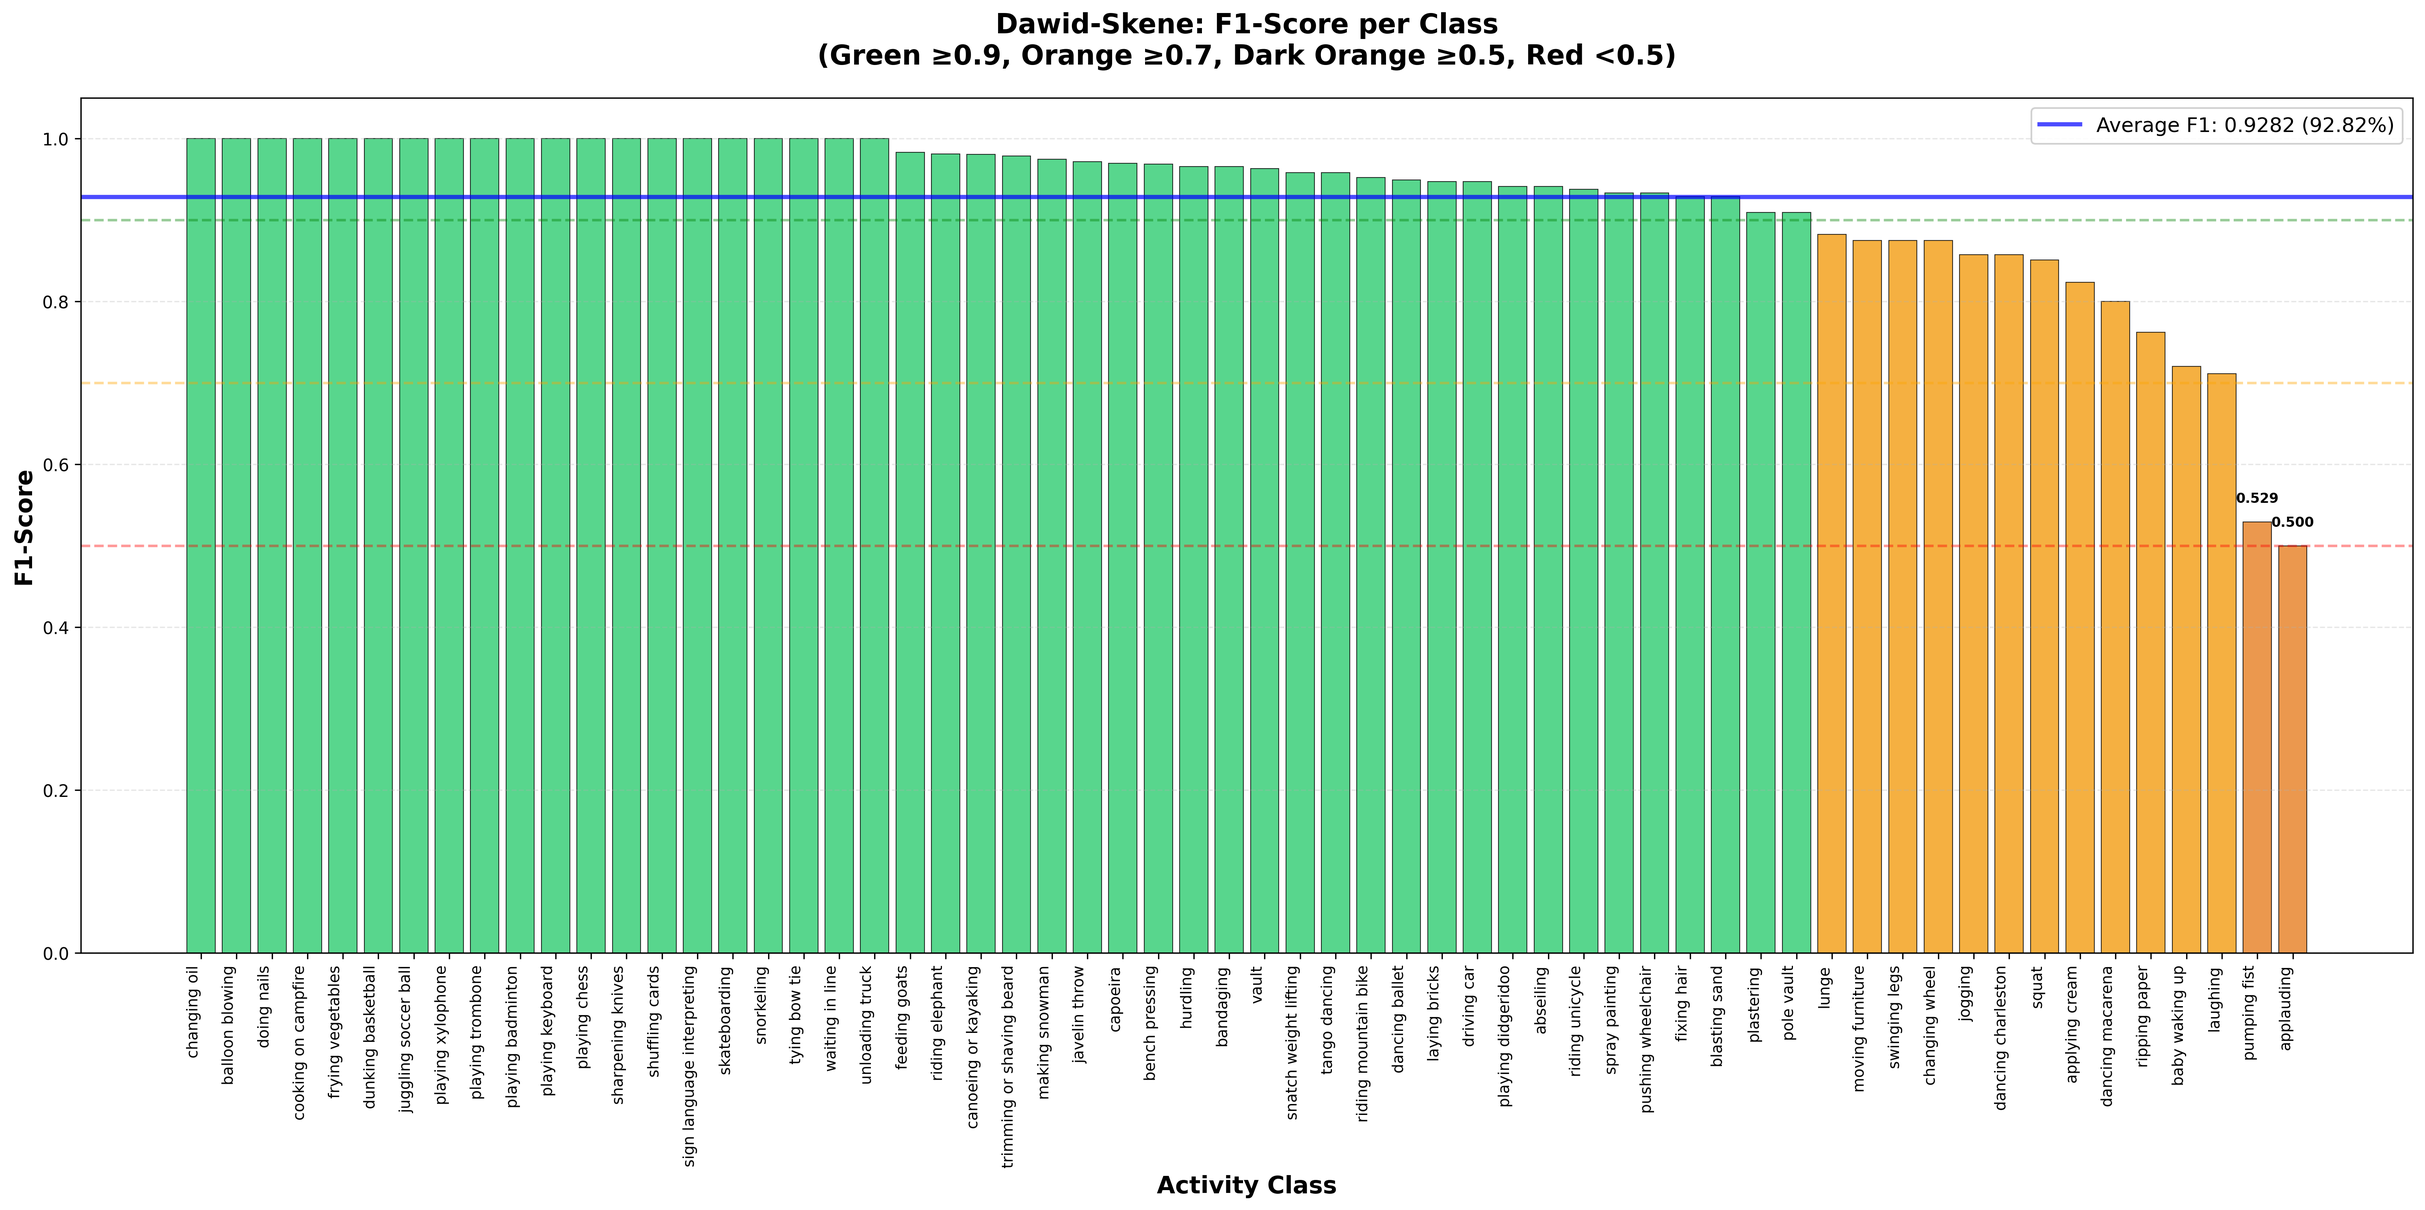
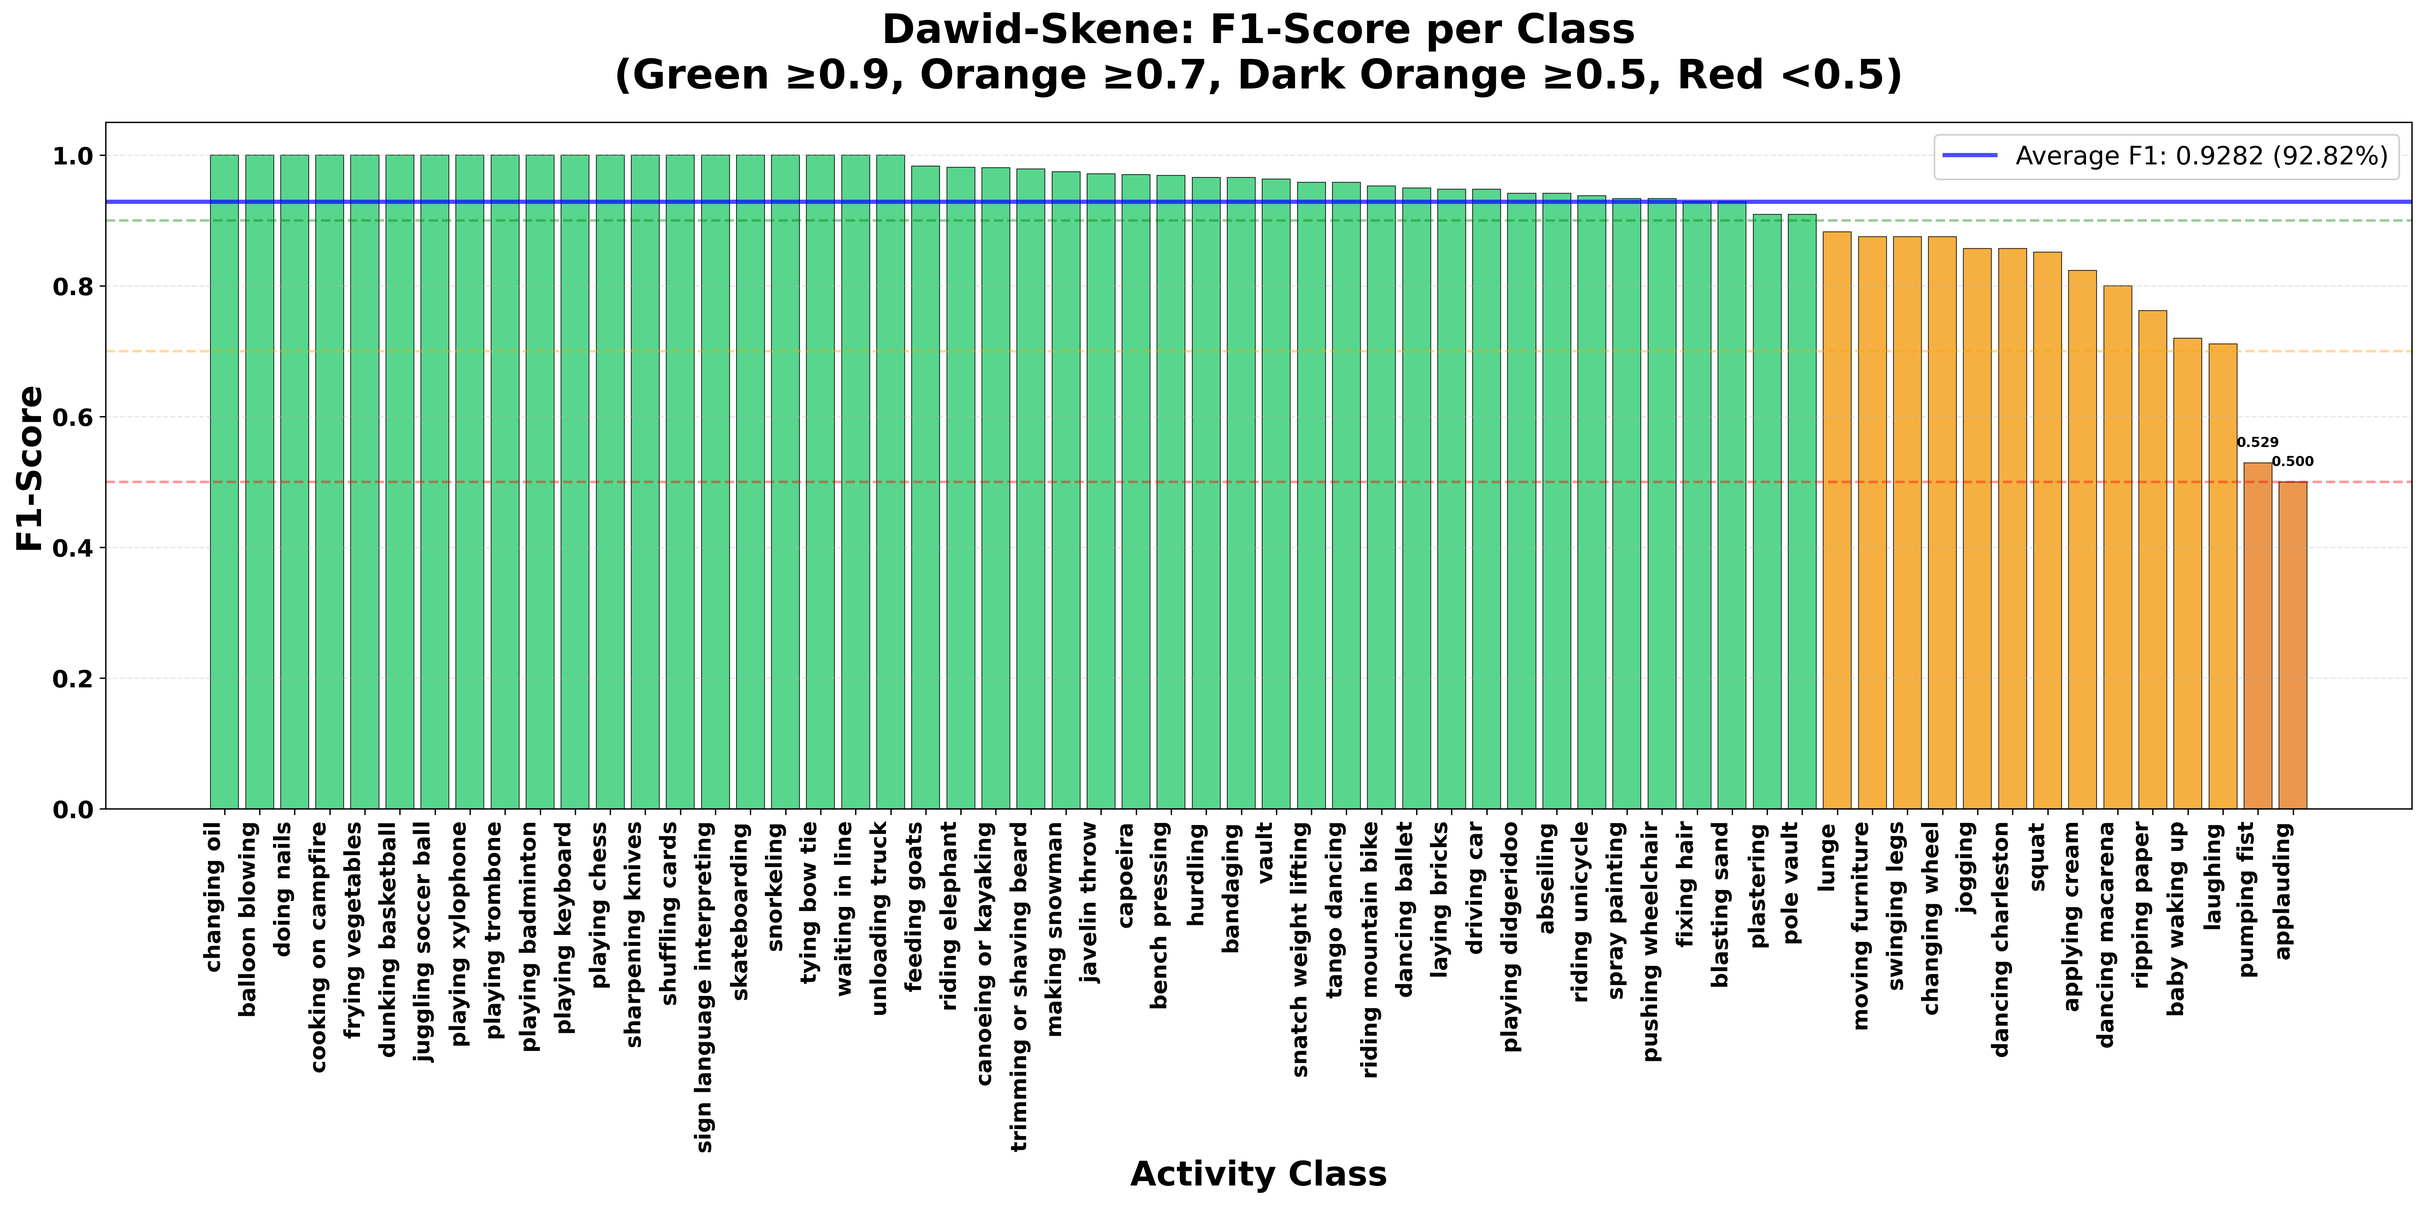
some updates

diff --git a/evualation_tools/visualize_classification_report.py b/evualation_tools/visualize_classification_report.py
@@ -57,14 +57,17 @@ def plot_per_class_metrics(df_classes, output_dir, method_name='Dawid-Skene'):
     ax.axhline(y=0.5, color='red', linestyle='--', linewidth=1.5, alpha=0.5, label='50% threshold')
     
     # Customize plot
-    ax.set_xlabel('Activity Class', fontsize=14, fontweight='bold')
-    ax.set_ylabel('Score', fontsize=14, fontweight='bold')
+    ax.set_xlabel('Activity Class', fontsize=20, fontweight='bold', color='black')
+    ax.set_ylabel('Score', fontsize=20, fontweight='bold', color='black')
     ax.set_title(f'{method_name}: Per-Class Performance Metrics\n(Sorted by F1-Score)', 
-                 fontsize=16, fontweight='bold', pad=20)
+                 fontsize=24, fontweight='bold', pad=20, color='black')
     ax.set_xticks(x_pos)
-    ax.set_xticklabels(classes, rotation=90, ha='right', fontsize=9)
+    ax.set_xticklabels(classes, rotation=90, ha='right', fontsize=13, fontweight='bold', color='black')
     ax.set_ylim(0, 1.05)
-    ax.legend(loc='upper right', fontsize=11, framealpha=0.9)
+    ax.tick_params(axis='y', labelsize=14, labelcolor='black')
+    for label in ax.get_yticklabels():
+        label.set_fontweight('bold')
+    ax.legend(loc='upper right', fontsize=14, framealpha=0.9)
     ax.grid(axis='y', alpha=0.3, linestyle='--')
     
     # Add average line
@@ -116,14 +119,17 @@ def plot_f1_score_only(df_classes, output_dir, method_name='Dawid-Skene'):
     ax.axhline(y=0.5, color='red', linestyle='--', linewidth=1.5, alpha=0.4)
     
     # Customize
-    ax.set_xlabel('Activity Class', fontsize=14, fontweight='bold')
-    ax.set_ylabel('F1-Score', fontsize=14, fontweight='bold')
+    ax.set_xlabel('Activity Class', fontsize=20, fontweight='bold', color='black')
+    ax.set_ylabel('F1-Score', fontsize=20, fontweight='bold', color='black')
     ax.set_title(f'{method_name}: F1-Score per Class\n(Green ≥0.9, Orange ≥0.7, Dark Orange ≥0.5, Red <0.5)', 
-                 fontsize=16, fontweight='bold', pad=20)
+                 fontsize=24, fontweight='bold', pad=20, color='black')
     ax.set_xticks(x_pos)
-    ax.set_xticklabels(classes, rotation=90, ha='right', fontsize=9)
+    ax.set_xticklabels(classes, rotation=90, ha='right', fontsize=13, fontweight='bold', color='black')
     ax.set_ylim(0, 1.05)
-    ax.legend(loc='upper right', fontsize=12, framealpha=0.9)
+    ax.tick_params(axis='y', labelsize=14, labelcolor='black')
+    for label in ax.get_yticklabels():
+        label.set_fontweight('bold')
+    ax.legend(loc='upper right', fontsize=15, framealpha=0.9)
     ax.grid(axis='y', alpha=0.3, linestyle='--')
     
     # Add value labels on top of bars for low performers
@@ -158,24 +164,19 @@ def plot_metrics_heatmap(df_classes, output_dir, method_name='Dawid-Skene'):
     # Set ticks
     ax.set_xticks(np.arange(len(df_classes)))
     ax.set_yticks(np.arange(3))
-    ax.set_xticklabels(df_classes.index, rotation=90, ha='right', fontsize=9)
-    ax.set_yticklabels(['Precision', 'Recall', 'F1-Score'], fontsize=12, fontweight='bold')
+    ax.set_xticklabels(df_classes.index, rotation=90, ha='right', fontsize=13, fontweight='bold', color='black')
+    ax.set_yticklabels(['Precision', 'Recall', 'F1-Score'], fontsize=18, fontweight='bold', color='black')
     
     # Add colorbar
     cbar = plt.colorbar(im, ax=ax, orientation='vertical', pad=0.01)
-    cbar.set_label('Score', fontsize=12, fontweight='bold')
+    cbar.set_label('Score', fontsize=16, fontweight='bold', color='black')
+    cbar.ax.tick_params(labelsize=13, labelcolor='black')
+    for label in cbar.ax.get_yticklabels():
+        label.set_fontweight('bold')
     
-    # Add values in cells
-    for i in range(3):
-        for j in range(len(df_classes)):
-            value = data_matrix[i, j]
-            color = 'white' if value < 0.5 else 'black'
-            text = ax.text(j, i, f'{value:.2f}', ha='center', va='center',
-                          color=color, fontsize=7, fontweight='bold')
-    
-    # Title
+    # Title (removed cell annotations for clarity)
     ax.set_title(f'{method_name}: Performance Metrics Heatmap\n(All Activity Classes)', 
-                 fontsize=16, fontweight='bold', pad=20)
+                 fontsize=24, fontweight='bold', pad=20, color='black')
     
     plt.tight_layout()
     
@@ -222,18 +223,21 @@ def plot_support_vs_f1(df_classes, output_dir, method_name='Dawid-Skene'):
     ax.plot(support, p(support), "r--", alpha=0.5, linewidth=2, 
             label=f'Trend: y={z[0]:.4f}x+{z[1]:.4f}')
     
-    ax.set_xlabel('Support (Number of Samples)', fontsize=12, fontweight='bold')
-    ax.set_ylabel('F1-Score', fontsize=12, fontweight='bold')
+    ax.set_xlabel('Support (Number of Samples)', fontsize=18, fontweight='bold', color='black')
+    ax.set_ylabel('F1-Score', fontsize=18, fontweight='bold', color='black')
     ax.set_title(f'{method_name}: F1-Score vs Sample Size\n(Correlation Analysis)', 
-                 fontsize=14, fontweight='bold', pad=20)
+                 fontsize=22, fontweight='bold', pad=20, color='black')
     ax.grid(True, alpha=0.3)
-    ax.legend(fontsize=11)
+    ax.tick_params(axis='both', labelsize=14, labelcolor='black')
+    for label in ax.get_xticklabels() + ax.get_yticklabels():
+        label.set_fontweight('bold')
+    ax.legend(fontsize=14)
     ax.set_ylim(0, 1.05)
     
     # Add correlation coefficient
     corr = np.corrcoef(support, f1_scores)[0, 1]
     ax.text(0.02, 0.98, f'Correlation: {corr:.3f}', 
-            transform=ax.transAxes, fontsize=11, verticalalignment='top',
+            transform=ax.transAxes, fontsize=15, fontweight='bold', verticalalignment='top',
             bbox=dict(boxstyle='round', facecolor='wheat', alpha=0.7))
     
     plt.tight_layout()
@@ -319,8 +323,8 @@ def main():
     print("=" * 100)
     
     # Input file
-    input_file = 'evaluation_results/dawid_skene_classification_report.csv'
-    output_dir = 'evaluation_results/visualizations'
+    input_file = '../evaluation_results/dawid_skene_classification_report.csv'
+    output_dir = '../evaluation_results/visualizations'
     method_name = 'Dawid-Skene'
     
     # Create output directory

diff --git a/evualation_tools/visualize_confusion_matrix.py b/evualation_tools/visualize_confusion_matrix.py
@@ -42,13 +42,13 @@ def plot_confusion_matrix_heatmap(cm_df, output_dir, method_name='Dawid-Skene'):
     )
     
     ax.set_title(f'{method_name}: Confusion Matrix\n(True Labels vs Predicted Labels)', 
-                 fontsize=18, fontweight='bold', pad=20)
-    ax.set_xlabel('Predicted Label', fontsize=14, fontweight='bold')
-    ax.set_ylabel('True Label', fontsize=14, fontweight='bold')
+                 fontsize=24, fontweight='bold', pad=20, color='black')
+    ax.set_xlabel('Predicted Label', fontsize=20, fontweight='bold', color='black')
+    ax.set_ylabel('True Label', fontsize=20, fontweight='bold', color='black')
     
     # Rotate labels
-    plt.xticks(rotation=90, ha='right', fontsize=8)
-    plt.yticks(rotation=0, fontsize=8)
+    plt.xticks(rotation=90, ha='right', fontsize=12, fontweight='bold', color='black')
+    plt.yticks(rotation=0, fontsize=12, fontweight='bold', color='black')
     
     plt.tight_layout()
     
@@ -86,13 +86,13 @@ def plot_normalized_confusion_matrix(cm_df, output_dir, method_name='Dawid-Skene
     )
     
     ax.set_title(f'{method_name}: Normalized Confusion Matrix\n(Row-wise: True Label Distribution)', 
-                 fontsize=18, fontweight='bold', pad=20)
-    ax.set_xlabel('Predicted Label', fontsize=14, fontweight='bold')
-    ax.set_ylabel('True Label', fontsize=14, fontweight='bold')
+                 fontsize=24, fontweight='bold', pad=20, color='black')
+    ax.set_xlabel('Predicted Label', fontsize=20, fontweight='bold', color='black')
+    ax.set_ylabel('True Label', fontsize=20, fontweight='bold', color='black')
     
     # Rotate labels
-    plt.xticks(rotation=90, ha='right', fontsize=8)
-    plt.yticks(rotation=0, fontsize=8)
+    plt.xticks(rotation=90, ha='right', fontsize=12, fontweight='bold', color='black')
+    plt.yticks(rotation=0, fontsize=12, fontweight='bold', color='black')
     
     plt.tight_layout()
     
@@ -153,14 +153,17 @@ def plot_per_class_accuracy_from_cm(cm_df, output_dir, method_name='Dawid-Skene'
     ax.axhline(y=0.7, color='orange', linestyle='--', linewidth=1.5, alpha=0.3)
     
     # Customize
-    ax.set_xlabel('Activity Class', fontsize=14, fontweight='bold')
-    ax.set_ylabel('Accuracy (Correct / Total)', fontsize=14, fontweight='bold')
+    ax.set_xlabel('Activity Class', fontsize=20, fontweight='bold', color='black')
+    ax.set_ylabel('Accuracy (Correct / Total)', fontsize=20, fontweight='bold', color='black')
     ax.set_title(f'{method_name}: Per-Class Accuracy from Confusion Matrix\n(Sorted by Accuracy)', 
-                 fontsize=16, fontweight='bold', pad=20)
+                 fontsize=24, fontweight='bold', pad=20, color='black')
     ax.set_xticks(x_pos)
-    ax.set_xticklabels(sorted_classes, rotation=90, ha='right', fontsize=9)
+    ax.set_xticklabels(sorted_classes, rotation=90, ha='right', fontsize=13, fontweight='bold', color='black')
     ax.set_ylim(0, 1.05)
-    ax.legend(loc='upper right', fontsize=11, framealpha=0.9)
+    ax.tick_params(axis='y', labelsize=14, labelcolor='black')
+    for label in ax.get_yticklabels():
+        label.set_fontweight('bold')
+    ax.legend(loc='upper right', fontsize=14, framealpha=0.9)
     ax.grid(axis='y', alpha=0.3, linestyle='--')
     
     # Add labels for poor performers
@@ -227,10 +230,13 @@ def analyze_confusion_pairs(cm_df, output_dir, method_name='Dawid-Skene', top_n=
         bars = ax.barh(y_pos, counts, color='coral', alpha=0.7, edgecolor='black')
         
         ax.set_yticks(y_pos)
-        ax.set_yticklabels(labels, fontsize=9)
-        ax.set_xlabel('Number of Misclassifications', fontsize=12, fontweight='bold')
+        ax.set_yticklabels(labels, fontsize=13, fontweight='bold', color='black')
+        ax.set_xlabel('Number of Misclassifications', fontsize=18, fontweight='bold', color='black')
         ax.set_title(f'{method_name}: Top {top_n} Most Confused Class Pairs\n(True Class → Predicted Class)', 
-                     fontsize=14, fontweight='bold', pad=20)
+                     fontsize=22, fontweight='bold', pad=20, color='black')
+        ax.tick_params(axis='x', labelsize=14, labelcolor='black')
+        for label in ax.get_xticklabels():
+            label.set_fontweight('bold')
         ax.grid(axis='x', alpha=0.3)
         
         # Add value labels
@@ -337,13 +343,16 @@ def plot_class_distribution(cm_df, output_dir, method_name='Dawid-Skene'):
     ax.axhline(y=avg_count, color='red', linestyle='--', linewidth=2,
                label=f'Average: {avg_count:.1f}', alpha=0.7)
     
-    ax.set_xlabel('Activity Class', fontsize=12, fontweight='bold')
-    ax.set_ylabel('Number of Samples', fontsize=12, fontweight='bold')
+    ax.set_xlabel('Activity Class', fontsize=18, fontweight='bold', color='black')
+    ax.set_ylabel('Number of Samples', fontsize=18, fontweight='bold', color='black')
     ax.set_title(f'{method_name}: Sample Distribution per Class\n(Sorted by Count)', 
-                 fontsize=14, fontweight='bold', pad=20)
+                 fontsize=22, fontweight='bold', pad=20, color='black')
     ax.set_xticks(x_pos)
-    ax.set_xticklabels(class_counts.index, rotation=90, ha='right', fontsize=8)
-    ax.legend(fontsize=11)
+    ax.set_xticklabels(class_counts.index, rotation=90, ha='right', fontsize=12, fontweight='bold', color='black')
+    ax.tick_params(axis='y', labelsize=14, labelcolor='black')
+    for label in ax.get_yticklabels():
+        label.set_fontweight('bold')
+    ax.legend(fontsize=14)
     ax.grid(axis='y', alpha=0.3)
     
     plt.tight_layout()
@@ -362,8 +371,8 @@ def main():
     print("=" * 100)
     
     # Input file
-    input_file = 'evaluation_results/dawid_skene_confusion_matrix.csv'
-    output_dir = 'evaluation_results/visualizations'
+    input_file = '../evaluation_results/dawid_skene_confusion_matrix.csv'
+    output_dir = '../evaluation_results/visualizations'
     method_name = 'Dawid-Skene'
     
     # Create output directory

diff --git a/evualation_tools/dawid_skene_visualization.py b/evualation_tools/dawid_skene_visualization.py
@@ -167,13 +167,13 @@ def plot_annotator_heatmap(error_matrix, annotator_name, classes, output_dir):
     )
     
     plt.title(f'Annotator Accuracy Matrix: {annotator_name}\n(Final Iteration)', 
-              fontsize=16, fontweight='bold', pad=20)
-    plt.xlabel('Predicted Class (Annotator Response)', fontsize=12, fontweight='bold')
-    plt.ylabel('True Class', fontsize=12, fontweight='bold')
+              fontsize=24, fontweight='bold', pad=20, color='black')
+    plt.xlabel('Predicted Class (Annotator Response)', fontsize=20, fontweight='bold', color='black')
+    plt.ylabel('True Class', fontsize=20, fontweight='bold', color='black')
     
     # Rotate labels for readability
-    plt.xticks(rotation=90, ha='right', fontsize=8)
-    plt.yticks(rotation=0, fontsize=8)
+    plt.xticks(rotation=90, ha='right', fontsize=12, fontweight='bold', color='black')
+    plt.yticks(rotation=0, fontsize=12, fontweight='bold', color='black')
     
     plt.tight_layout()
     
@@ -200,14 +200,17 @@ def plot_diagonal_accuracy(error_matrix, annotator_name, classes, output_dir):
     plt.axhline(y=np.mean(diagonal_accuracies), color='blue', linestyle='--', 
                 linewidth=2, label=f'Average: {np.mean(diagonal_accuracies):.3f}')
     
-    plt.xlabel('Class', fontsize=12, fontweight='bold')
-    plt.ylabel('Accuracy (Diagonal Probability)', fontsize=12, fontweight='bold')
+    plt.xlabel('Class', fontsize=20, fontweight='bold', color='black')
+    plt.ylabel('Accuracy (Diagonal Probability)', fontsize=20, fontweight='bold', color='black')
     plt.title(f'Per-Class Accuracy for {annotator_name}\n(Probability of Correct Classification)', 
-              fontsize=14, fontweight='bold')
-    plt.xticks(x_pos, classes, rotation=90, ha='right', fontsize=8)
+              fontsize=24, fontweight='bold', color='black')
+    plt.xticks(x_pos, classes, rotation=90, ha='right', fontsize=13, fontweight='bold', color='black')
+    plt.tick_params(axis='y', labelsize=14, labelcolor='black')
+    for label in plt.gca().get_yticklabels():
+        label.set_fontweight('bold')
     plt.ylim(0, 1.0)
     plt.grid(axis='y', alpha=0.3)
-    plt.legend()
+    plt.legend(fontsize=14)
     
     plt.tight_layout()
     
@@ -261,23 +264,29 @@ def plot_convergence_metrics(log_likelihood_history, convergence_history,
     
     # Plot log-likelihood
     ax1.plot(iterations, log_likelihood_history, 'b-', linewidth=2, marker='o')
-    ax1.set_xlabel('Iteration', fontsize=12, fontweight='bold')
-    ax1.set_ylabel('Log-Likelihood', fontsize=12, fontweight='bold')
-    ax1.set_title('Dawid-Skene Convergence: Log-Likelihood', fontsize=14, fontweight='bold')
+    ax1.set_xlabel('Iteration', fontsize=18, fontweight='bold', color='black')
+    ax1.set_ylabel('Log-Likelihood', fontsize=18, fontweight='bold', color='black')
+    ax1.set_title('Dawid-Skene Convergence: Log-Likelihood', fontsize=22, fontweight='bold', color='black')
+    ax1.tick_params(axis='both', labelsize=14, labelcolor='black')
+    for label in ax1.get_xticklabels() + ax1.get_yticklabels():
+        label.set_fontweight('bold')
     ax1.grid(True, alpha=0.3)
     
     # Plot accuracy
     ax2.plot(iterations, accuracies, 'g-', linewidth=2, marker='s')
-    ax2.set_xlabel('Iteration', fontsize=12, fontweight='bold')
-    ax2.set_ylabel('Accuracy', fontsize=12, fontweight='bold')
-    ax2.set_title('Dawid-Skene Convergence: Accuracy', fontsize=14, fontweight='bold')
+    ax2.set_xlabel('Iteration', fontsize=18, fontweight='bold', color='black')
+    ax2.set_ylabel('Accuracy', fontsize=18, fontweight='bold', color='black')
+    ax2.set_title('Dawid-Skene Convergence: Accuracy', fontsize=22, fontweight='bold', color='black')
     ax2.set_ylim(0, 1.0)
+    ax2.tick_params(axis='both', labelsize=14, labelcolor='black')
+    for label in ax2.get_xticklabels() + ax2.get_yticklabels():
+        label.set_fontweight('bold')
     ax2.grid(True, alpha=0.3)
     
     # Add final accuracy text
     final_acc = accuracies[-1] if accuracies else 0
     ax2.text(0.02, 0.98, f'Final Accuracy: {final_acc:.4f} ({final_acc*100:.2f}%)',
-             transform=ax2.transAxes, fontsize=11, verticalalignment='top',
+             transform=ax2.transAxes, fontsize=15, fontweight='bold', verticalalignment='top',
              bbox=dict(boxstyle='round', facecolor='wheat', alpha=0.5))
     
     plt.tight_layout()
